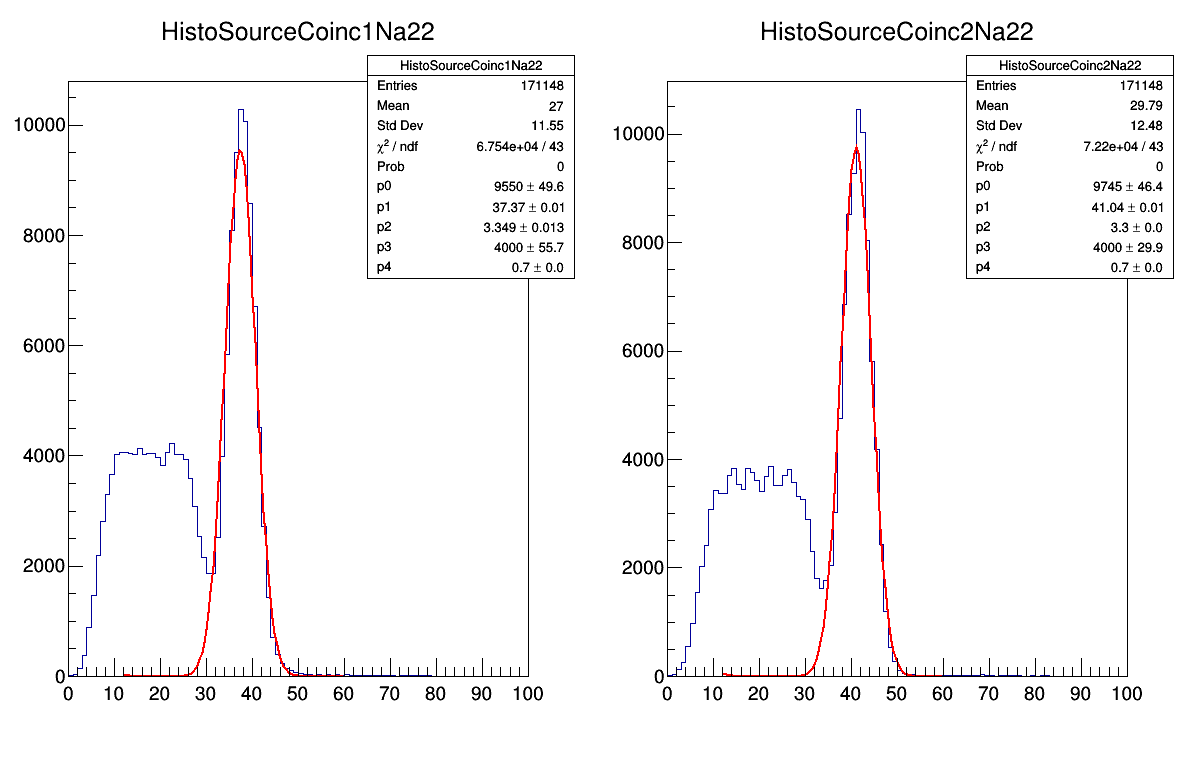
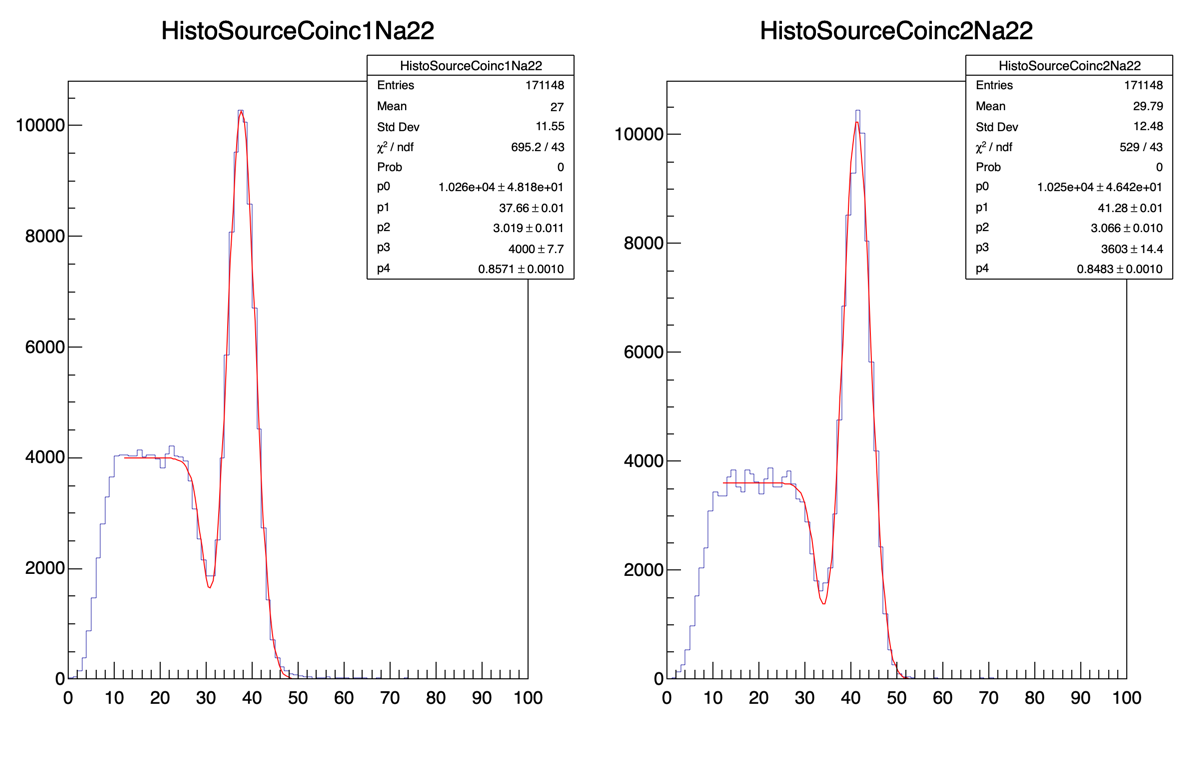
unificazione gaussia na- compton edge

diff --git a/defV3/sodioCoinc.cpp b/defV3/sodioCoinc.cpp
@@ -49,17 +49,17 @@ void Analysis(string FName, string Source){
   /*   TF1* spectrum = new TF1("SpectrumFit","[0] * exp(-( x-[1] )*( x-[1] )/( 2* [2]* [2]))  +  [3] * exp(-( x-[4] )*( x-[4] )/( 2* [5]* [5]))  +  [6] / (exp((x - [7]) * [8]) + 1)  +  [9] / (exp((x - [10]) * [11]) + 1)  +                    [12] * exp(-(x*[13]-[14]))",21,88);
     */
 
-  TF1* spectrum1 = new TF1("SpectrumFit1","[0] * exp(-( x-[1] )*( x-[1] )/( 2* [2]* [2])) + [3] / (exp( (x-(2*[1]*[1]/(511+2*[1]))) * [4]) + 1)",12,60);
+  TF1* spectrum1 = new TF1("SpectrumFit1","[0] * exp(-( x-[1] )*( x-[1] )/( 2* [2]* [2])) + [3] / (exp( (x*[4]-(2*[1]*[1]/([1]+2*[1])))) + 1)",12,60);
 
   spectrum1->SetParLimits(0,9000,11000);
   spectrum1->SetParLimits(1,36,44);
   spectrum1->SetParLimits(2,0,10);
 
   spectrum1->SetParLimits(3,3000,4000);
-  spectrum1->SetParLimits(4,0.9,1.2);
+  spectrum1->SetParLimits(4,0.7,1.2);
 
   
-  TF1* spectrum2 = new TF1("SpectrumFit2","[0] * exp(-( x-[1] )*( x-[1] )/( 2* [2]* [2])) + [3] / (exp((x - (2*[1]*[1]/(511+2*[1]))) * [4]) + 1)",12,60);
+  TF1* spectrum2 = new TF1("SpectrumFit2","[0] * exp(-( x-[1] )*( x-[1] )/( 2* [2]* [2])) + [3] / (exp((x*[4] - (2*[1]*[1]/([1]+2*[1])))) + 1)",12,60);
 
   spectrum2->SetParLimits(0,9000,11000);
   spectrum2->SetParLimits(1,36,44);
